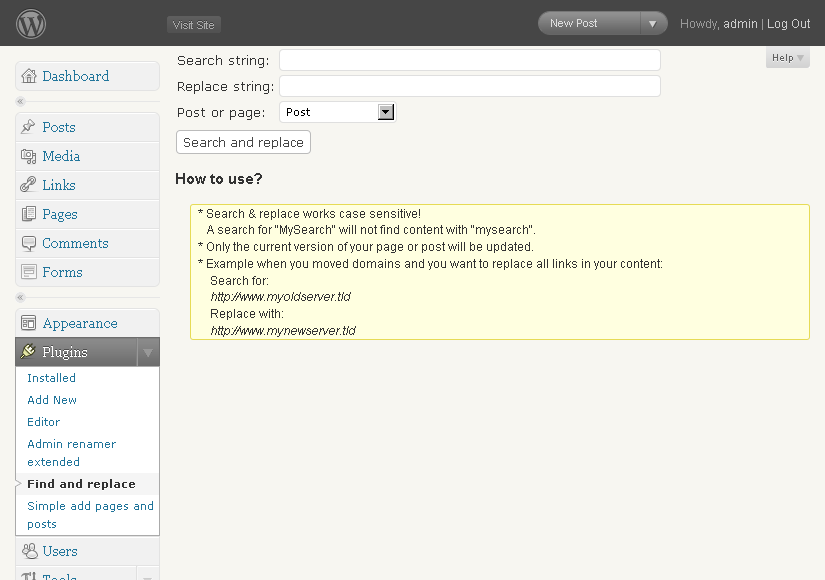
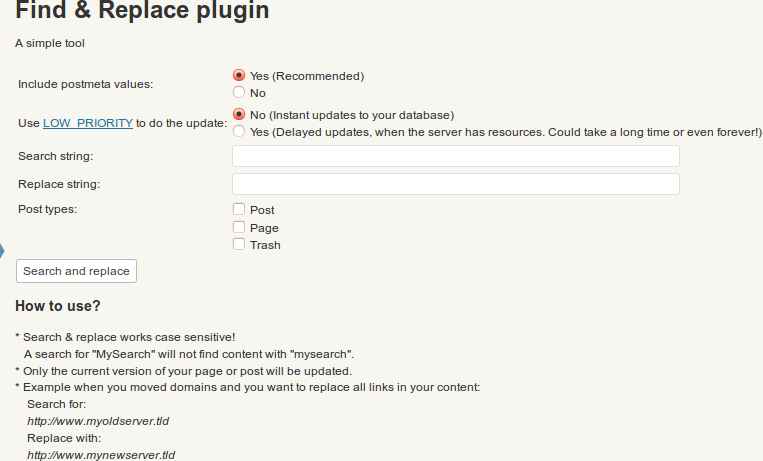
Bugfix
git-svn-id: https://plugins.svn.wordpress.org/find-replace/trunk@515528 b8457f37-d9ea-0310-8a92-e5e31aec5664

Changed region(s): [[0.0, 0.0, 1.0, 0.6074], [0.0, 0.5163, 0.633, 1.0]]

diff --git a/form.php b/form.php
@@ -1,16 +1,13 @@
 <?php
 /**
- * Admin renamer extended operations.
- *
- * Managing the worpress additonal admin renamer extended operations.
  *
  * @category      WordPress Plugins
  * @package    	  Plugins
- * @author        Bas Bosman, MijnPress DE
+ * @author        Bas Bosman, MijnPress DE, Ramon Fincken
  * @copyright     Yes, Open source, MijnPress.nl
  */
 if (!defined('ABSPATH')) die("Aren't you supposed to come here via WP-Admin?");
-global $wpdb, $current_user;
+global $wpdb;
 
 $message = null;
 $showMsg = 'none';
@@ -25,48 +22,45 @@ if (isset($_POST['submitbutton']) && isset($_POST['post_type'])){
 	else if (!isset($_POST['replace']) || !$_POST['replace']){
 		echo '<div id="message" class="error">No replace string</div>';
 	}
-	elseif (!isset($_POST['posttype']) || !count($_POST['posttype'])){
+	elseif (!isset($_POST['post_type']) || !count($_POST['post_type'])){
 		echo '<div id="message" class="error">No post type selected</div>';
 	} else {
-
 		//Is magic quotes on?
-		if (get_magic_quotes_gpc()) {
-			$posttype_org = $_POST['posttype'];
-			// Yes? Strip the added slashes
-			$_POST = array_map('stripslashes', $_POST);
-			$_POST['posttype'] = $posttype_org;
+		// http://codex.wordpress.org/Function_Reference/stripslashes_deep
+		if ( get_magic_quotes_gpc() ) {
+			$_POST = array_map( 'stripslashes_deep', $_POST );
 		}
 
 		//logic
-		$query          = "";
-		
+		$query	= "";
+		$subquery = "";
+
+		// at least 1 post_type is there, so the opening ( will match the ) below this foreach
 		foreach ($_POST['post_type'] as $type) {
-         $query         = $query == '' ? 'WHERE p.post_type IN(' : $query . ', ';
-         $query         .= "'" . $type . "'";
-      }
-      $query         .= ")";
-      
+			$subquery         = $subquery == '' ? 'WHERE p.post_type IN(' : $subquery . ', ';
+			$subquery         .= "'" . $type . "'";
+		}
+		$query         = $subquery.")";
+
 		$field          = 'post_content';
 		$search         = $_POST['search'];
 		$replace        = $_POST['replace'];
-      	$prio           = ($_POST['low_priority'] == 'yes') ? ' LOW_PRIORITY ' : '';
+		$prio           = ($_POST['low_priority'] == 'yes') ? ' LOW_PRIORITY ' : '';
 
+		$updatequery = $wpdb->prepare( "UPDATE ".$prio." $wpdb->posts AS p SET p.".$field." = REPLACE(p.".$field.", '%s', '%s') $query", $search, $replace );
 
-      $updatequery = $wpdb->prepare( "UPDATE ".$prio." $wpdb->posts AS p SET p.".$field." = REPLACE(p.".$field.", '%s', '%s') $query", $search, $replace );
-
-      $wpdb->query($updatequery);
+		$wpdb->query($updatequery);
 
 		if(isset($_POST['postmeta']) && $_POST['postmeta'] == 'yes')
 		{
 			$field = 'meta_value';
-		
-			$updatequery = $wpdb->prepare( "UPDATE ".$prio." $wpdb->postmeta AS pm, $wpdb->posts AS p SET pm.".$field." = REPLACE(pm.".$field.", '%s', '%s') $query AND pm.post_id = p.ID", $search, $replace );
 
+			$updatequery = $wpdb->prepare( "UPDATE ".$prio." $wpdb->postmeta AS pm, $wpdb->posts AS p SET pm.".$field." = REPLACE(pm.".$field.", '%s', '%s') $query AND pm.post_id = p.ID", $search, $replace );
 			$wpdb->query($updatequery);
 		}
 
 		if(empty($prio))
-		{		
+		{
 			echo '<div id="message" class="updated fade">All instances of \'' . $search . '\' are replaced with \''. $replace .'\'.</div>';
 		}
 		else
@@ -76,20 +70,25 @@ if (isset($_POST['submitbutton']) && isset($_POST['post_type'])){
 	}
 }
 ?>
+<h1>Find &amp; Replace plugin</h1>
+<p>A simple tool.</p>
+
 <form id="form1" name="form1" method="post" action=""
-	onsubmit="return confirm('Are you sure?')">
+	onsubmit="return confirm('Are you sure? There is NO undo.')">
 <table>
 	<tr>
 		<td>Include postmeta values:</td>
-		<td><input type="radio" name="postmeta" value="yes" checked="checked" /> Yes (Recommended)<br/>
-<input type="radio" name="postmeta" value="no" /> No
-</td>
+		<td><input type="radio" name="postmeta" value="yes" checked="checked" />
+		Yes (Recommended)<br />
+		<input type="radio" name="postmeta" value="no" /> No</td>
 	</tr>
 	<tr>
-		<td>Use <a href="http://dev.mysql.com/doc/refman/5.0/en/update.html" target="_blank">LOW_PRIORITY</a> to do the update:</td>
-		<td><input type="radio" name="low_priority" value="no" checked="checked" /> No (Instant updates to your database)<br/>
-<input type="radio" name="low_priority" value="yes" /> Yes (Delayed updates, when the server has resources. Could take a long time!)
-</td>
+		<td>Use <a href="http://dev.mysql.com/doc/refman/5.0/en/update.html"
+			target="_blank">LOW_PRIORITY</a> to do the update:</td>
+		<td><input type="radio" name="low_priority" value="no"
+			checked="checked" /> No (Instant updates to your database)<br />
+		<input type="radio" name="low_priority" value="yes" /> Yes (Delayed
+		updates, when the server has resources. Could take a long time or even forever!)</td>
 	</tr>
 	<tr>
 		<td>Search string:</td>
@@ -101,18 +100,16 @@ if (isset($_POST['submitbutton']) && isset($_POST['post_type'])){
 	</tr>
 	<tr>
 		<td valign="top">Post types:</td>
-		<td>
-         <?php
-         //get all
-		   $post_types           = get_post_types(array('public' => true), 'object');
-		   unset($post_types['attachment']);
-		   foreach ($post_types as $type => $info) {
-            echo '<label><input type="checkbox" name="post_type[]" value="' . $type . '"> ' . $info->labels->singular_name . '</label><br>';
-		   }
-         ?>
-         <label><input type="checkbox" name="post_type[]" value="trash"> Trash</label>
-      </td>
-	<tr>
+		<td><?php
+		//get all
+		$post_types  = get_post_types(array('public' => true), 'object');
+		unset($post_types['attachment']);
+		foreach ($post_types as $type => $info) {
+			echo '<label><input type="checkbox" name="post_type[]" value="' . $type . '"> ' . $info->labels->singular_name . '</label><br>';
+		}
+		?> <label><input type="checkbox" name="post_type[]" value="trash">
+		Trash</label></td>
+	</tr>
 </table>
 <input type="submit" name="submitbutton" value="Search and replace"
 	style="margin-top: 2px;"></form>
@@ -121,7 +118,6 @@ if (isset($_POST['submitbutton']) && isset($_POST['post_type'])){
 <p class="updated">* Search &amp; replace works case sensitive!<br />
 &nbsp;&nbsp;&nbsp;A search for "MySearch" will not find content with
 "mysearch".<br />
-* Warning, Search &amp; replace postmeta will replace all postmeta, regardless of post type!<br />
 * Only the current version of your page or post will be updated.<br />
 * Example when you moved domains and you want to replace all links in
 your content:<br />
